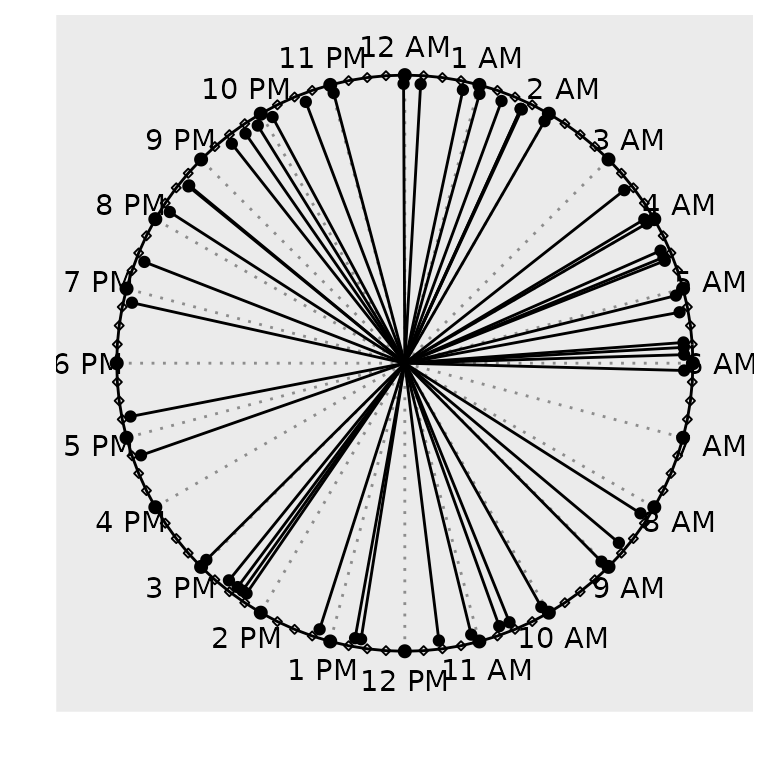
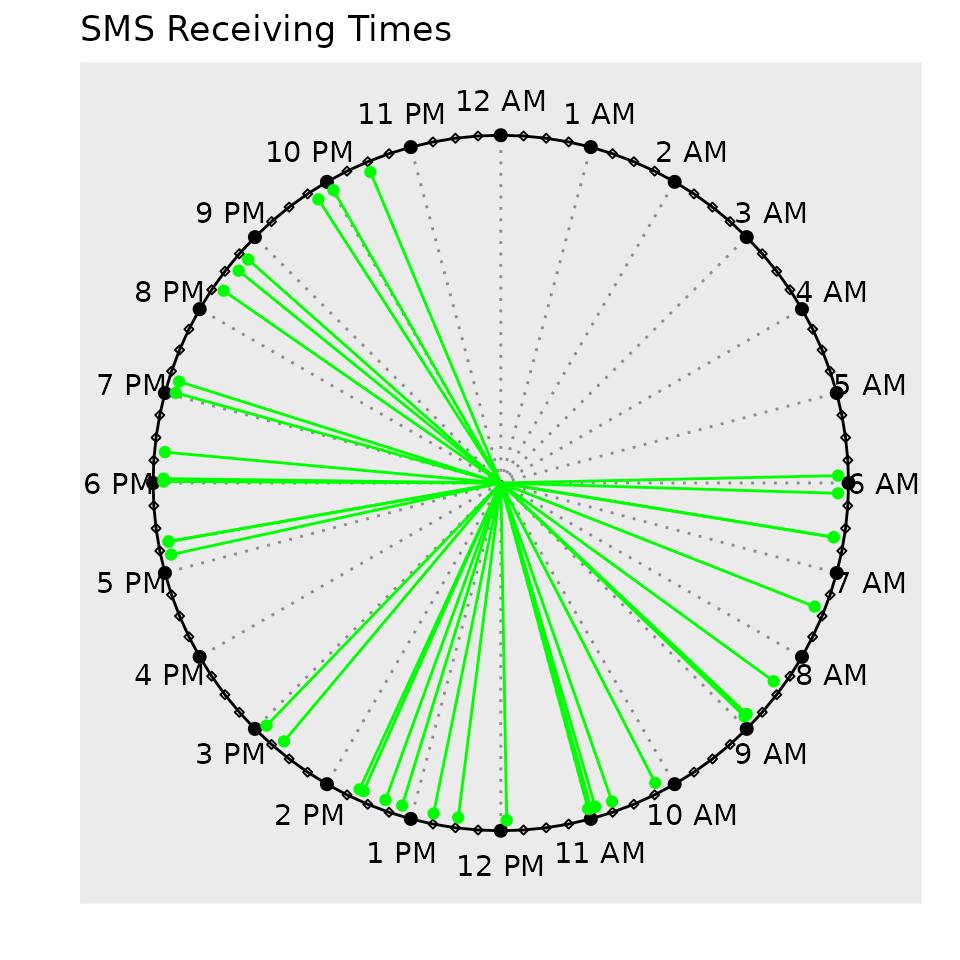
Deploying to gh-pages from @ mahmudstat/clockplot@ad224c15aa7b98710613e5dad95d520e45760a66 🚀

Changed region(s): [[0.0625, 0.0, 1.0, 0.9062]]

diff --git a/articles/clockplot.html b/articles/clockplot.html
@@ -117,7 +117,7 @@ format using <code><a href="https://hms.tidyverse.org/reference/parse_hms.html" 
 <p>This is the simplest clock chart; the hands are neither colored nor
 length modified by a criteria.</p>
 <p>We are going to use the <code>smsclock</code> data set. Let us have a
-look.</p>
+look on it.</p>
 <div class="sourceCode" id="cb2"><pre class="downlit sourceCode r">
 <code class="sourceCode R"><span><span class="fu"><a href="https://rdrr.io/r/utils/head.html" class="external-link">head</a></span><span class="op">(</span><span class="va">smsclock</span><span class="op">)</span></span>
 <span><span class="co">#&gt; <span style="color: #949494;"># A tibble: 6 × 5</span></span></span>
@@ -129,18 +129,41 @@ look.</p>
 <span><span class="co">#&gt; <span style="color: #BCBCBC;">4</span> 02-09-2024 19:02:00 Airtel      No      offer  </span></span>
 <span><span class="co">#&gt; <span style="color: #BCBCBC;">5</span> 02-09-2024 18:21:00 Airtel      No      offer  </span></span>
 <span><span class="co">#&gt; <span style="color: #BCBCBC;">6</span> 02-09-2024 17:20:00 Airtel      No      offer</span></span></code></pre></div>
-<p>The necessary code to produce, using a clock is just this:</p>
+<p>The necessary code to produce a chart is just this:</p>
 <div class="sourceCode" id="cb3"><pre class="downlit sourceCode r">
-<code class="sourceCode R"><span><span class="fu"><a href="../reference/clock_chart.html">clock_chart</a></span><span class="op">(</span><span class="va">smsclock</span>, <span class="va">time</span><span class="op">)</span></span></code></pre></div>
-<p>We, however can add extra components to make it look better.</p>
+<code class="sourceCode R"><span><span class="fu"><a href="../reference/clock_chart.html">clock_chart</a></span><span class="op">(</span><span class="va">smsclock</span>, <span class="va">time</span>, Col <span class="op">=</span> <span class="st">"green"</span><span class="op">)</span></span></code></pre></div>
+<p>The code produces a <code>ggplot2</code> object, so we can add
+(<code>+</code>) add extra components to make it more informative.</p>
 <div class="sourceCode" id="cb4"><pre class="downlit sourceCode r">
-<code class="sourceCode R"><span><span class="va">p1</span> <span class="op">&lt;-</span> <span class="fu"><a href="../reference/clock_chart.html">clock_chart</a></span><span class="op">(</span><span class="va">smsclock</span>, <span class="va">time</span><span class="op">)</span></span>
+<code class="sourceCode R"><span><span class="va">p1</span> <span class="op">&lt;-</span> <span class="fu"><a href="../reference/clock_chart.html">clock_chart</a></span><span class="op">(</span><span class="va">smsclock</span>, <span class="va">time</span>, Col <span class="op">=</span> <span class="st">"green"</span><span class="op">)</span></span>
 <span><span class="va">p1</span> <span class="op">+</span> <span class="fu">ggplot2</span><span class="fu">::</span><span class="fu"><a href="https://ggplot2.tidyverse.org/reference/labs.html" class="external-link">labs</a></span><span class="op">(</span>title <span class="op">=</span> <span class="st">"SMS Receiving Times"</span><span class="op">)</span></span></code></pre></div>
-<p><img src="clockplot_files/figure-html/unnamed-chunk-4-1.png" width="700"></p>
+<p><img src="clockplot_files/figure-html/clock-chart-1.png" width="480" style="display: block; margin: auto;"></p>
 </div>
 <div class="section level3">
-<h3 id="clock_chart_qnt">clock_chart_qnt()<a class="anchor" aria-label="anchor" href="#clock_chart_qnt"></a>
+<h3 id="colored-clock-chart">Colored Clock Chart<a class="anchor" aria-label="anchor" href="#colored-clock-chart"></a>
 </h3>
+<p>In the previous chart, we colored the hands by an arbitrary color. We
+may want to color it by a <code>numeric</code> variable.
+<code>clock_chart_col</code> exactly does this.</p>
+<p>We may use <code>bdquake</code> data set for this.</p>
+<div class="sourceCode" id="cb5"><pre class="downlit sourceCode r">
+<code class="sourceCode R"><span><span class="fu"><a href="https://rdrr.io/r/utils/head.html" class="external-link">head</a></span><span class="op">(</span><span class="va">bdquake</span><span class="op">)</span></span>
+<span><span class="co">#&gt;   latitude longitude  depth mag      hms</span></span>
+<span><span class="co">#&gt; 1  24.3726   92.6936 35.000 4.4 21:12:27</span></span>
+<span><span class="co">#&gt; 2  25.7318   91.0047 41.021 4.1 02:20:09</span></span>
+<span><span class="co">#&gt; 3  21.9812   92.6510 44.892 4.1 16:46:37</span></span>
+<span><span class="co">#&gt; 4  25.7414   90.2866 10.000 4.4 08:57:52</span></span>
+<span><span class="co">#&gt; 5  25.2901   91.7860 46.386 4.2 03:16:57</span></span>
+<span><span class="co">#&gt; 6  23.1475   90.9317 45.057 5.5 03:35:33</span></span></code></pre></div>
+<p>The code without added components.</p>
+<div class="sourceCode" id="cb6"><pre class="downlit sourceCode r">
+<code class="sourceCode R"><span><span class="fu"><a href="../reference/clock_chart_col.html">clock_chart_col</a></span><span class="op">(</span><span class="va">bdquake</span>, time <span class="op">=</span> <span class="va">hms</span>, crit <span class="op">=</span> <span class="va">mag</span><span class="op">)</span></span></code></pre></div>
+<p>Let us modify it.</p>
+<div class="sourceCode" id="cb7"><pre class="downlit sourceCode r">
+<code class="sourceCode R"><span><span class="va">p</span> <span class="op">&lt;-</span> <span class="fu"><a href="../reference/clock_chart_col.html">clock_chart_col</a></span><span class="op">(</span><span class="va">bdquake</span>, time <span class="op">=</span> <span class="va">hms</span>, crit <span class="op">=</span> <span class="va">mag</span><span class="op">)</span></span>
+<span><span class="va">p</span> <span class="op">+</span> <span class="fu">ggplot2</span><span class="fu">::</span><span class="fu"><a href="https://ggplot2.tidyverse.org/reference/labs.html" class="external-link">labs</a></span><span class="op">(</span>size <span class="op">=</span> <span class="st">"Magnitude"</span>, title <span class="op">=</span> <span class="st">"Earthquakes in Bangladesh since 2023"</span><span class="op">)</span></span></code></pre></div>
+<p><img src="clockplot_files/figure-html/clock-chart-col-1.png" width="480" style="display: block; margin: auto;"></p>
+<p>to be continued …</p>
 </div>
 </div>
   </main><aside class="col-md-3"><nav id="toc" aria-label="Table of contents"><h2>On this page</h2>

diff --git a/reference/conv_hms.html b/reference/conv_hms.html
@@ -81,11 +81,12 @@ made <code>00</code>, since in practice it has negligible effect on the plot.</p
     <h2 id="ref-examples">Examples<a class="anchor" aria-label="anchor" href="#ref-examples"></a></h2>
     <div class="sourceCode"><pre class="sourceCode r"><code><span class="r-in"><span><span class="va">df</span> <span class="op">&lt;-</span> <span class="fu"><a href="https://rdrr.io/r/base/data.frame.html" class="external-link">data.frame</a></span><span class="op">(</span>time <span class="op">=</span> <span class="fu"><a href="https://rdrr.io/r/base/c.html" class="external-link">c</a></span><span class="op">(</span><span class="st">"06:00"</span>, <span class="st">"08:00"</span>, <span class="st">"17:30"</span><span class="op">)</span><span class="op">)</span></span></span>
 <span class="r-in"><span><span class="va">df</span> <span class="op">=</span> <span class="fu">conv_hms</span><span class="op">(</span><span class="va">df</span>, <span class="va">time</span>, <span class="va">New</span><span class="op">)</span></span></span>
-<span class="r-wrn co"><span class="r-pr">#&gt;</span> <span class="warning">Warning: </span>'conv_hms' is deprecated.</span>
-<span class="r-wrn co"><span class="r-pr">#&gt;</span> Use 'hms::parse_hm' instead.</span>
-<span class="r-wrn co"><span class="r-pr">#&gt;</span> See help("Deprecated")</span>
+<span class="r-err co"><span class="r-pr">#&gt;</span> <span class="error">Error in conv_hms(df, time, New):</span> could not find function "conv_hms"</span>
 <span class="r-in"><span><span class="va">df</span></span></span>
-<span class="r-out co"><span class="r-pr">#&gt;</span> [1] "'conv_hms' is deprecated.\nUse 'hms::parse_hm' instead.\nSee help(\"Deprecated\")"</span>
+<span class="r-out co"><span class="r-pr">#&gt;</span>    time</span>
+<span class="r-out co"><span class="r-pr">#&gt;</span> 1 06:00</span>
+<span class="r-out co"><span class="r-pr">#&gt;</span> 2 08:00</span>
+<span class="r-out co"><span class="r-pr">#&gt;</span> 3 17:30</span>
 </code></pre></div>
     </div>
   </main><aside class="col-md-3"><nav id="toc" aria-label="Table of contents"><h2>On this page</h2>

diff --git a/reference/clockplot-package.html b/reference/clockplot-package.html
@@ -49,8 +49,13 @@ The primary goal of clockplot is to plot event time on a clock chart. Additional
     <div class="dont-index"><p>Useful links:</p><ul><li><p><a href="https://mahmudstat.github.io/clockplot/">https://mahmudstat.github.io/clockplot/</a></p></li>
 </ul></div>
     </div>
+    <div class="section level2">
+    <h2 id="author">Author<a class="anchor" aria-label="anchor" href="#author"></a></h2>
+    <p><strong>Maintainer</strong>: Abdullah Al Mahmud <a href="mailto:almahmud.sbi@gmail.com">almahmud.sbi@gmail.com</a> (<a href="https://orcid.org/0000-0003-2814-8798" class="external-link">ORCID</a>)</p>
+    </div>
 
-  </main></div>
+  </main><aside class="col-md-3"><nav id="toc" aria-label="Table of contents"><h2>On this page</h2>
+    </nav></aside></div>
 
 
     <footer><div class="pkgdown-footer-left">
